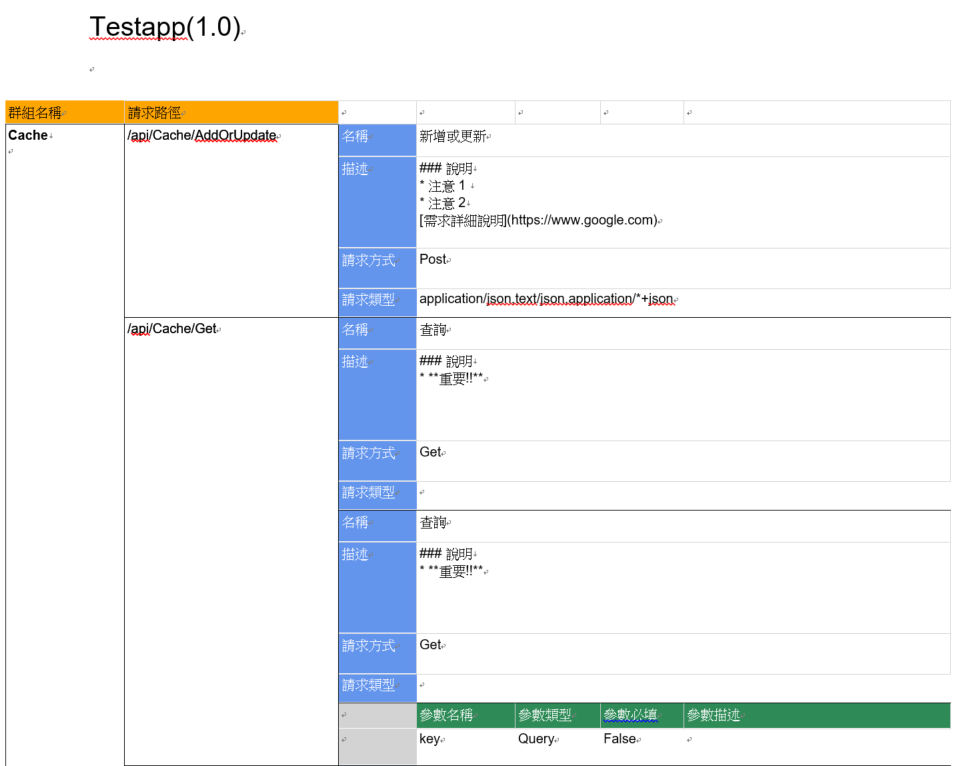
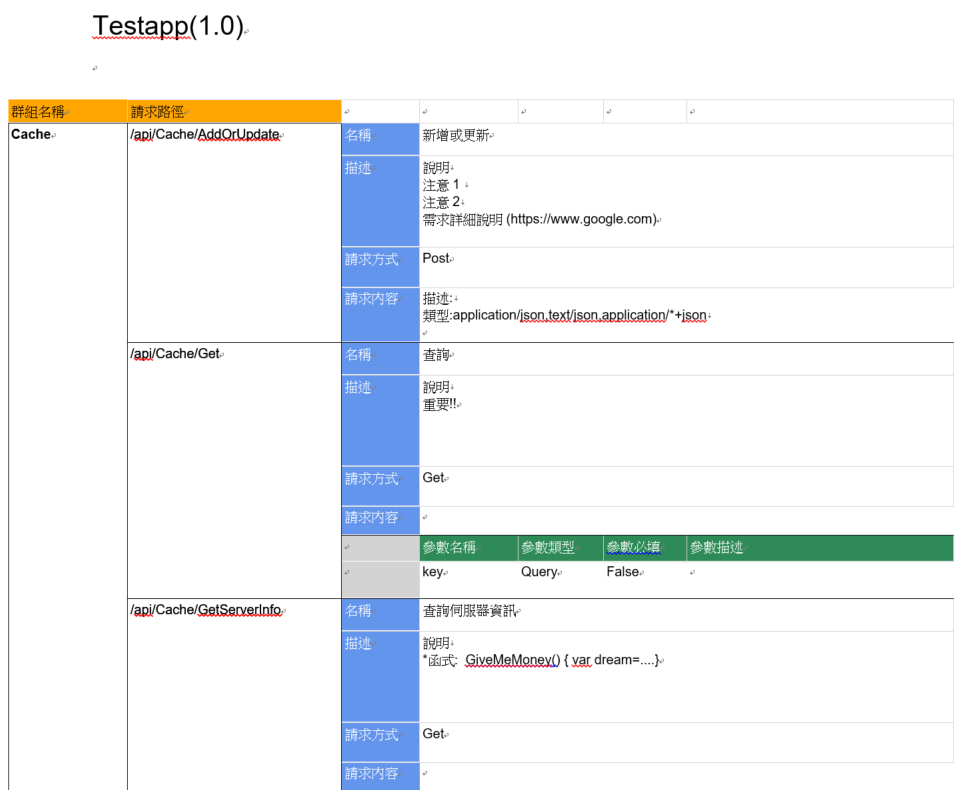
modified template

diff --git a/swagger2document/ReportHelper.cs b/swagger2document/ReportHelper.cs
@@ -1,5 +1,6 @@
 using Microsoft.OpenApi.Models;
 using Microsoft.Reporting.NETCore;
+using System.ComponentModel.DataAnnotations;
 using System.Text.Encodings.Web;
 using System.Text.Json;
 using System.Text.RegularExpressions;
@@ -59,7 +60,9 @@ internal class ReportHelper
                 reportModel.Description = operation.Value.Description.RemoveMarkdown();
                 if (operation.Value.RequestBody != null)
                 {
-                    reportModel.RequestType = string.Join(',', operation.Value.RequestBody.Content.Keys);
+                    var requestBody = $"描述:{operation.Value.RequestBody.Description + Environment.NewLine}";
+                    requestBody += $"類型:{string.Join(',', operation.Value.RequestBody.Content.Keys) + Environment.NewLine}";
+                    reportModel.RequestType = requestBody;
                 }
                 if (operation.Value.Parameters?.Count > 0)
                 {
@@ -98,7 +101,15 @@ internal class ReportHelper
                           ParaRequired = paramItem.ParaRequired,
                           ParaDescription = paramItem.ParaDescription,
                       }));
-            report.DataSources.Add(new ReportDataSource("ReportItem", items.Concat(flattenedItems)));
+            items.ForEach(c =>
+            {
+                c.ParaName = flattenedItems?.FirstOrDefault(a => a.Tag.Equals(c.Tag) && a.Url.Equals(c.Url))?.ParaName ?? "";
+                c.ParaType = flattenedItems?.FirstOrDefault(a => a.Tag.Equals(c.Tag) && a.Url.Equals(c.Url))?.ParaType ?? "";
+                c.ParaRequired = flattenedItems?.FirstOrDefault(a => a.Tag.Equals(c.Tag) && a.Url.Equals(c.Url))?.ParaRequired ?? null;
+                c.ParaDescription = flattenedItems?.FirstOrDefault(a => a.Tag.Equals(c.Tag) && a.Url.Equals(c.Url))?.ParaDescription ?? "";
+
+            });
+            report.DataSources.Add(new ReportDataSource("ReportItem", items));
         }
         else
         {
@@ -124,7 +135,7 @@ public static class StringExtensions
         input = Regex.Replace(input, @"!\[.*?\]\(.*?\)", "");
 
         // 移除連結語法
-        input = Regex.Replace(input, @"\[.*?\]\(.*?\)", m => m.Groups[1].Value);
+        input = Regex.Replace(input, @"\[([^]]+)\]\(([^)]+)\)", m => $"{m.Groups[1].Value} ({m.Groups[2].Value})");
 
         // 移除強調語法
         input = Regex.Replace(input, @"(\*\*|__)(.*?)\1", "$2");
